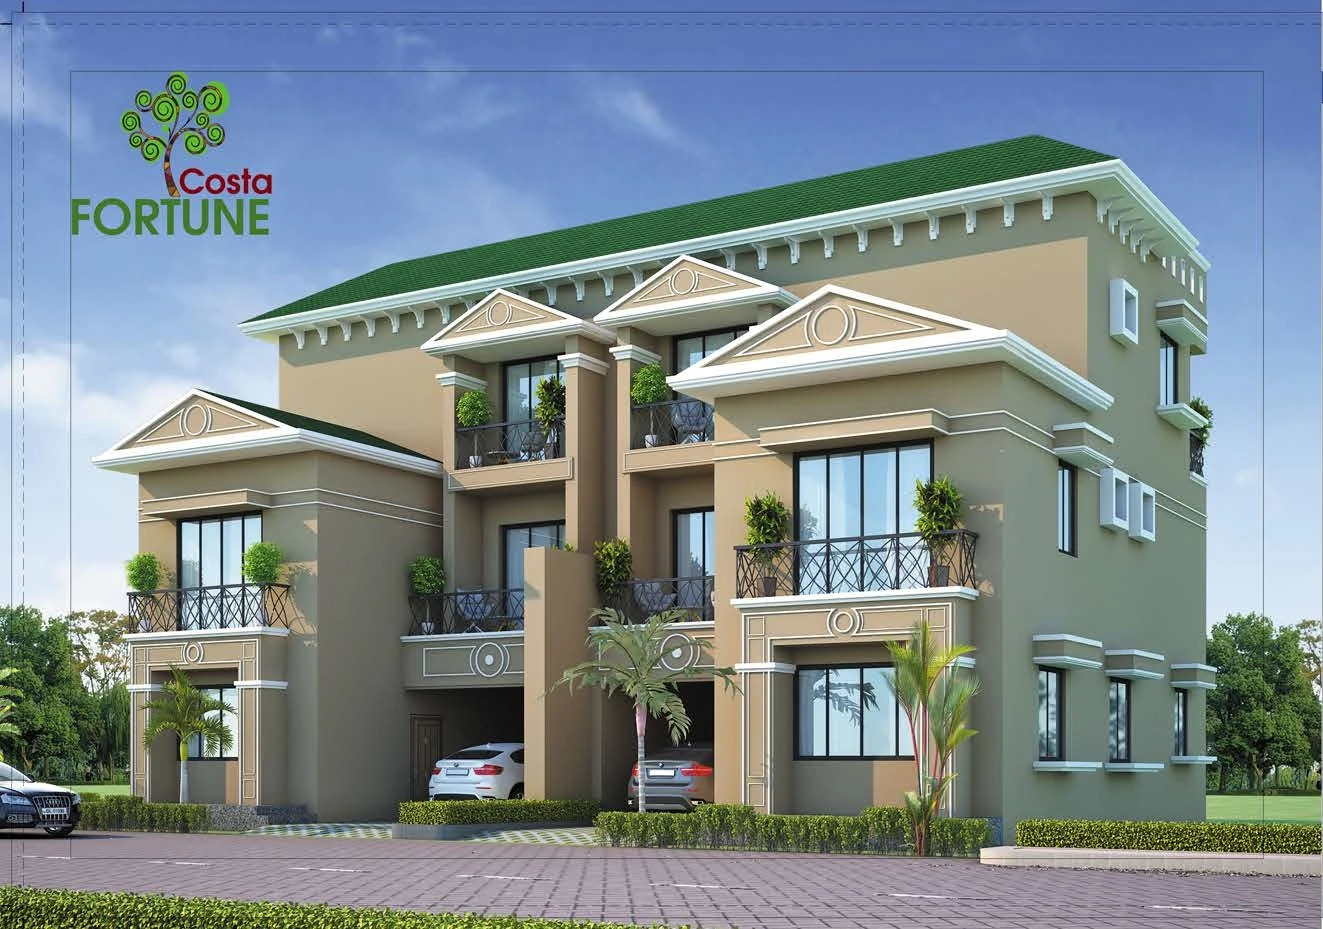
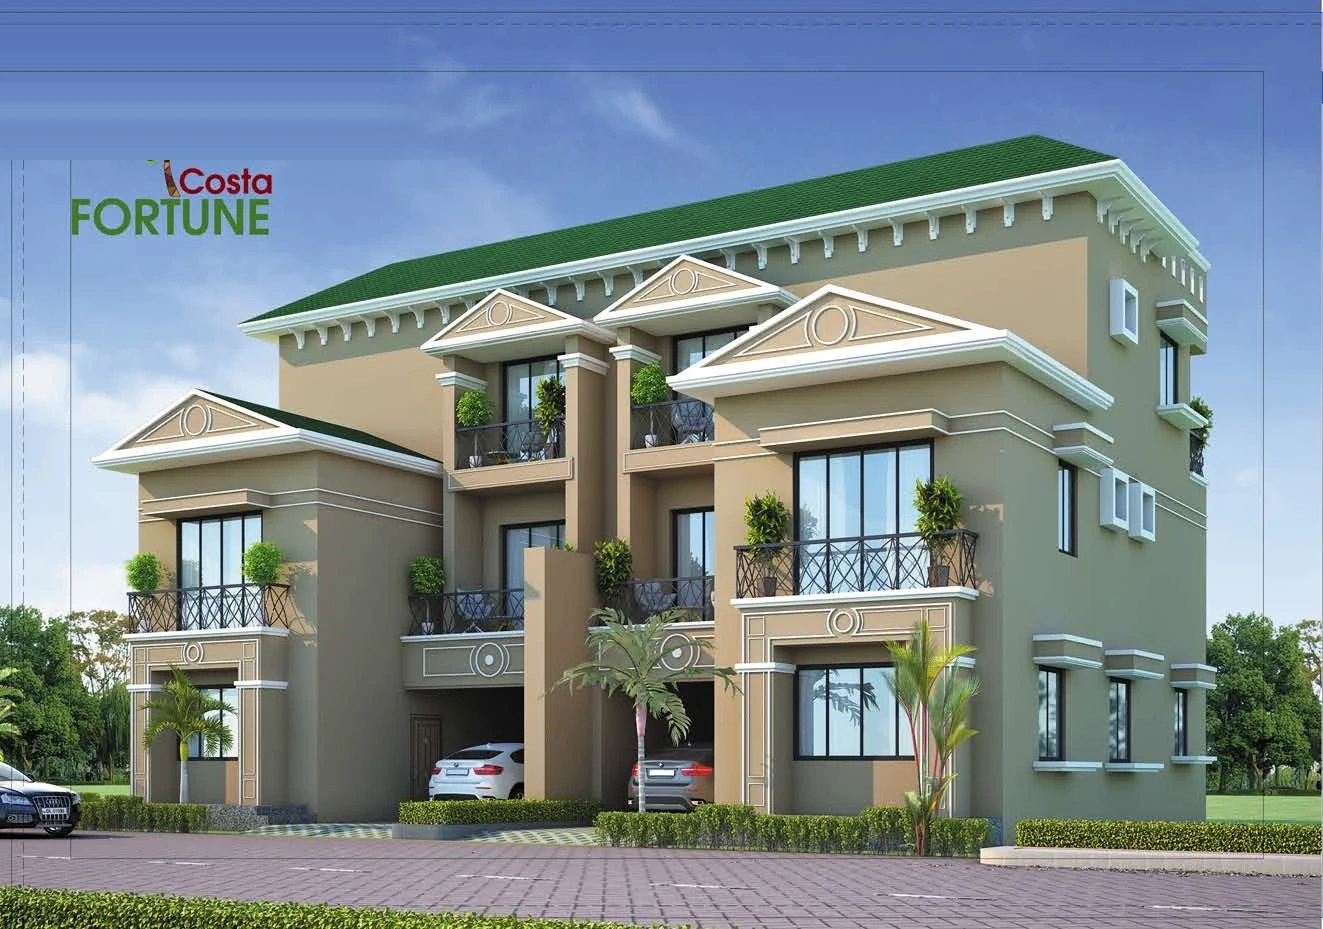
feat(cleanup): satellite map from google maps, heal triplex watermarks, high contrast stats, and Phase 3 Horizon Heights piling telemetry

Changed region(s): [[0.093, 0.0624, 0.1859, 0.1873], [0.0, 0.0, 0.062, 0.1561]]

diff --git a/triplex.html b/triplex.html
@@ -147,11 +147,23 @@
       <p class="body" style="color:#A39E93; font-size:14.5px; line-height:1.75; margin-bottom:28px;">
         Because the enclave is fully delivered, every element can be verified in person on site &mdash; the plaster finish, solid joinery, storm water drainage, and structural longevity. That is the tangible trust of a promoter with a completed track record.
       </p>
-      <dl class="stats" style="display:grid; grid-template-columns:repeat(2, 1fr); gap:16px; border-top:1px solid rgba(212,175,55,0.25); padding-top:20px;">
-        <div class="stat"><dt style="color:#D4AF37; font-family:var(--serif); font-size:28px; font-weight:700;">G+2</dt><dd style="color:#FAF8F5; font-size:12px; font-family:var(--ui); text-transform:uppercase; letter-spacing:0.1em; margin-top:4px;">Villa configuration</dd></div>
-        <div class="stat"><dt style="color:#0E873D; font-family:var(--serif); font-size:28px; font-weight:700;">100%</dt><dd style="color:#FAF8F5; font-size:12px; font-family:var(--ui); text-transform:uppercase; letter-spacing:0.1em; margin-top:4px;">Sold out &amp; handed over</dd></div>
-        <div class="stat"><dt style="color:#D4AF37; font-family:var(--serif); font-size:24px; font-weight:700;">RP/19/2023</dt><dd style="color:#FAF8F5; font-size:12px; font-family:var(--ui); text-transform:uppercase; letter-spacing:0.1em; margin-top:4px;">ORERA Registered /00854</dd></div>
-        <div class="stat"><dt style="color:#E5C368; font-family:var(--serif); font-size:28px; font-weight:700;">Phase 1</dt><dd style="color:#FAF8F5; font-size:12px; font-family:var(--ui); text-transform:uppercase; letter-spacing:0.1em; margin-top:4px;">Of 3 Enclave Phases</dd></div>
+      <dl class="stats" style="display:grid; grid-template-columns:repeat(2, 1fr); gap:14px; border-top:1px solid rgba(212,175,55,0.3); padding-top:20px; background:transparent;">
+        <div class="stat" style="background:rgba(14,24,18,0.95) !important; border:1px solid rgba(212,175,55,0.35) !important; border-radius:8px; padding:16px 18px; box-shadow:0 8px 24px rgba(0,0,0,0.5);">
+          <dt style="color:#D4AF37 !important; font-family:var(--serif); font-size:30px; font-weight:700; line-height:1;">G+2</dt>
+          <dd style="color:#FAF8F5 !important; font-size:12px; font-family:var(--ui); font-weight:600; text-transform:uppercase; letter-spacing:0.12em; margin-top:8px;">Villa configuration</dd>
+        </div>
+        <div class="stat" style="background:rgba(14,24,18,0.95) !important; border:1px solid rgba(212,175,55,0.35) !important; border-radius:8px; padding:16px 18px; box-shadow:0 8px 24px rgba(0,0,0,0.5);">
+          <dt style="color:#0E873D !important; font-family:var(--serif); font-size:30px; font-weight:700; line-height:1;">100%</dt>
+          <dd style="color:#FAF8F5 !important; font-size:12px; font-family:var(--ui); font-weight:600; text-transform:uppercase; letter-spacing:0.12em; margin-top:8px;">Sold out &amp; handed over</dd>
+        </div>
+        <div class="stat" style="background:rgba(14,24,18,0.95) !important; border:1px solid rgba(212,175,55,0.35) !important; border-radius:8px; padding:16px 18px; box-shadow:0 8px 24px rgba(0,0,0,0.5);">
+          <dt style="color:#D4AF37 !important; font-family:var(--serif); font-size:24px; font-weight:700; line-height:1;">RP/19/2023</dt>
+          <dd style="color:#FAF8F5 !important; font-size:12px; font-family:var(--ui); font-weight:600; text-transform:uppercase; letter-spacing:0.12em; margin-top:8px;">ORERA Registered /00854</dd>
+        </div>
+        <div class="stat" style="background:rgba(14,24,18,0.95) !important; border:1px solid rgba(212,175,55,0.35) !important; border-radius:8px; padding:16px 18px; box-shadow:0 8px 24px rgba(0,0,0,0.5);">
+          <dt style="color:#E5C368 !important; font-family:var(--serif); font-size:30px; font-weight:700; line-height:1;">Phase 1</dt>
+          <dd style="color:#FAF8F5 !important; font-size:12px; font-family:var(--ui); font-weight:600; text-transform:uppercase; letter-spacing:0.12em; margin-top:8px;">Of 3 Enclave Phases</dd>
+        </div>
       </dl>
     </div>
 
@@ -232,11 +244,23 @@
       <p class="body" style="color:#A39E93; font-size:14.5px; line-height:1.75; margin-bottom:28px;">
         We maintain the official owner resale waiting register and contact verified buyers in sequential order. Zero brokerage is charged on promoter-handled transfers, and all documents are cross-verified against original ORERA allotments before closure.
       </p>
-      <dl class="stats" style="display:grid; grid-template-columns:repeat(2, 1fr); gap:16px; border-top:1px solid rgba(212,175,55,0.25); padding-top:20px;">
-        <div class="stat"><dt style="color:#D4AF37; font-family:var(--serif); font-size:28px; font-weight:700;">0</dt><dd style="color:#FAF8F5; font-size:12px; font-family:var(--ui); text-transform:uppercase; letter-spacing:0.1em; margin-top:4px;">Primary units left</dd></div>
-        <div class="stat"><dt style="color:#0E873D; font-family:var(--serif); font-size:24px; font-weight:700;">Direct</dt><dd style="color:#FAF8F5; font-size:12px; font-family:var(--ui); text-transform:uppercase; letter-spacing:0.1em; margin-top:4px;">Promoter-handled transfer</dd></div>
-        <div class="stat"><dt style="color:#D4AF37; font-family:var(--serif); font-size:28px; font-weight:700;">₹0</dt><dd style="color:#FAF8F5; font-size:12px; font-family:var(--ui); text-transform:uppercase; letter-spacing:0.1em; margin-top:4px;">Zero Brokerage Fee</dd></div>
-        <div class="stat"><dt style="color:#E5C368; font-family:var(--serif); font-size:24px; font-weight:700;">100%</dt><dd style="color:#FAF8F5; font-size:12px; font-family:var(--ui); text-transform:uppercase; letter-spacing:0.1em; margin-top:4px;">ORERA Verified Allotment</dd></div>
+      <dl class="stats" style="display:grid; grid-template-columns:repeat(2, 1fr); gap:14px; border-top:1px solid rgba(212,175,55,0.3); padding-top:20px; background:transparent;">
+        <div class="stat" style="background:rgba(14,24,18,0.95) !important; border:1px solid rgba(212,175,55,0.35) !important; border-radius:8px; padding:16px 18px; box-shadow:0 8px 24px rgba(0,0,0,0.5);">
+          <dt style="color:#D4AF37 !important; font-family:var(--serif); font-size:30px; font-weight:700; line-height:1;">0</dt>
+          <dd style="color:#FAF8F5 !important; font-size:12px; font-family:var(--ui); font-weight:600; text-transform:uppercase; letter-spacing:0.12em; margin-top:8px;">Primary units left</dd>
+        </div>
+        <div class="stat" style="background:rgba(14,24,18,0.95) !important; border:1px solid rgba(212,175,55,0.35) !important; border-radius:8px; padding:16px 18px; box-shadow:0 8px 24px rgba(0,0,0,0.5);">
+          <dt style="color:#0E873D !important; font-family:var(--serif); font-size:26px; font-weight:700; line-height:1;">Direct</dt>
+          <dd style="color:#FAF8F5 !important; font-size:12px; font-family:var(--ui); font-weight:600; text-transform:uppercase; letter-spacing:0.12em; margin-top:8px;">Promoter-handled transfer</dd>
+        </div>
+        <div class="stat" style="background:rgba(14,24,18,0.95) !important; border:1px solid rgba(212,175,55,0.35) !important; border-radius:8px; padding:16px 18px; box-shadow:0 8px 24px rgba(0,0,0,0.5);">
+          <dt style="color:#D4AF37 !important; font-family:var(--serif); font-size:30px; font-weight:700; line-height:1;">₹0</dt>
+          <dd style="color:#FAF8F5 !important; font-size:12px; font-family:var(--ui); font-weight:600; text-transform:uppercase; letter-spacing:0.12em; margin-top:8px;">Zero Brokerage Fee</dd>
+        </div>
+        <div class="stat" style="background:rgba(14,24,18,0.95) !important; border:1px solid rgba(212,175,55,0.35) !important; border-radius:8px; padding:16px 18px; box-shadow:0 8px 24px rgba(0,0,0,0.5);">
+          <dt style="color:#E5C368 !important; font-family:var(--serif); font-size:26px; font-weight:700; line-height:1;">100%</dt>
+          <dd style="color:#FAF8F5 !important; font-size:12px; font-family:var(--ui); font-weight:600; text-transform:uppercase; letter-spacing:0.12em; margin-top:8px;">ORERA Verified Allotment</dd>
+        </div>
       </dl>
     </div>
   </div>

diff --git a/index.html b/index.html
@@ -331,12 +331,6 @@
   </div>
   <div class="hero__content" style="position:relative; z-index:3; max-width:1200px; margin:0 auto; padding-top:20px; padding-bottom:30px;">
     
-    <!-- OFFICIAL BUILDER PRESTIGE BADGE AT ENTRANCE -->
-    <div style="display:inline-flex; align-items:center; gap:12px; padding:8px 20px; border-radius:999px; background:rgba(8,14,10,0.88); border:1px solid rgba(212,175,55,0.5); margin-bottom:20px; backdrop-filter:blur(14px); box-shadow:0 8px 24px rgba(0,0,0,0.5);">
-      <img src="assets/logos/costa-furtune-official-gold.webp" alt="Costa Furtune Official Emblem" width="28" height="28" style="height:26px; width:26px; object-fit:contain; filter:drop-shadow(0 2px 6px rgba(212,175,55,0.5)); flex-shrink:0;" />
-      <span style="font-size:11.5px; font-family:var(--ui); font-weight:700; letter-spacing:0.16em; text-transform:uppercase; color:#D4AF37;">Official Developer Enclave &middot; Sai Harmony Pvt. Ltd. &middot; ORERA MP/19/2024/01244</span>
-    </div>
-
     <h1 class="hero__title" style="margin-bottom:18px; text-shadow:0 4px 28px rgba(0,0,0,0.85);">
       <span class="hero__line" style="color:#FAF8F5;">Costa</span>
       <span class="hero__line hero__line--accent" style="color:#D4AF37;">Furtune</span>
@@ -468,7 +462,7 @@
     <div class="location__media">
       <figure class="location__map">
         <img src="assets/costa-furtune-satellite-location-map.webp" alt="Official Satellite Location Map for Costa Furtune Master Township showing Sparsh Hospital, Chandaka Forest and 200ft NH Bypass" loading="lazy" decoding="async" width="1200" height="1200" />
-        <span class="map-pin" style="--x:58.44%; --y:51.42%;">
+        <span class="map-pin" style="--x:52.29%; --y:49.13%;">
           <span class="map-pin__pulse"></span>
           <span class="map-pin__dot"></span>
           <span class="map-pin__label">Costa Furtune<small>Ghangapatna · Kantabada</small></span>
@@ -576,7 +570,7 @@
         <ul class="township-key">
           <li><span>01</span><b>Costa Furtune Triplex</b><em>Phase 1 · G+2 villas · delivered &amp; sold out</em></li>
           <li><span>02</span><b>Costa Furtune Crestview</b><em>Phase 2 · B+S+12 · 144 residences · Aug 2028</em></li>
-          <li><span>03</span><b>Costa Furtune Horizon Heights</b><em>Phase 3 · B+S+12 Apartment with Duplex Penthouse · Plot No. 2 · EOI open</em></li>
+          <li><span>03</span><b>Costa Furtune Horizon Heights</b><em>Phase 3 · B+S+12 Apartment with Duplex Penthouse · Plot No. 2 · Possession June 2029</em></li>
           <li><span>04</span><b>Club Costa Fantacy</b><em>Shared anchor · G+3 + Open-to-Sky Party Terrace · township clubhouse</em></li>
         </ul>
         <a href="#enquire" class="btn btn--primary btn--sm">Book Master Site Tour ↗</a>
@@ -602,7 +596,7 @@
       <a href="horizon-heights.html" class="township-master-pill">
         <span class="badge-exclusive" style="align-self:flex-start;">PHASE 3 · SKYWARD EXPANSION</span>
         <strong>Costa Furtune Horizon Heights</strong>
-        <span>B+S+12 Superstructure with Duplex Penthouse · Plot No. 2 · EOI Open (Possession: June 2029)</span>
+        <span>B+S+12 Superstructure with Duplex Penthouse · Plot No. 2 · Possession: June 2029</span>
       </a>
       <a href="clubhouse.html" class="township-master-pill">
         <span class="badge-ready" style="align-self:flex-start;">SHARED ANCHOR · READY</span>
@@ -725,7 +719,7 @@
         <div class="township-card__meta">
           <span>ORERA: <b>RP/19/2026/01487</b></span>
           <span>Typology: <b>B+S+12 Superstructure with Duplex Penthouse</b></span>
-          <span>Status: <b>EOI Open &middot; Possession June 2029</b></span>
+          <span>Status: <b>Piling &amp; Raft Complete &middot; Possession June 2029</b></span>
         </div>
         <div class="township-card__actions">
           <a href="horizon-heights.html" class="btn btn--gold btn--sm" style="display:inline-block; padding:8px 18px; font-size:11px;">View Horizon Heights Page →</a>
@@ -768,7 +762,7 @@
     <p class="label"><span>03</span> Crestview Residences</p>
     <h2 class="display">The 3 BHK Collection.<br /><em>Bespoke, spacious, uncompromised.</em></h2>
     <p class="lede lede--center">
-      1 BHK residences are 100% fully booked. Developer allocation is now dedicated exclusively to the four premier 3 BHK typologies starting at ₹5,700/sq.ft.
+      Limited 1 BHK units available in selective allocation. Primary developer share is dedicated to the four premier 3 BHK typologies starting at ₹5,700/sq.ft.
     </p>
   </div>
 
@@ -780,7 +774,7 @@
         <span class="badge-ready">BASE RATE: ₹5,700 / SQ. FT. SBA</span>
       </div>
       <p>
-        <strong>Notice to Buyers:</strong> 1 BHK residences are <strong>100% fully booked</strong>. Developer allocation is strictly focused on our expansive <strong>3 BHK Royal &amp; Imperial Collection (1,845 – 2,033 sq ft SBA) starting at ₹5,700/sq.ft</strong>.
+        <strong>Notice to Buyers:</strong> Limited 1 BHK units available (600 – 671 sq ft) upon request. Developer allocation is strictly focused on our expansive <strong>3 BHK Royal &amp; Imperial Collection (1,845 – 2,033 sq ft SBA) starting at ₹5,700/sq.ft</strong>.
       </p>
     </div>
 
@@ -1219,9 +1213,9 @@
       <img src="assets/site-tower.webp" alt="Active RCC tower construction stilt to 5th floor" loading="lazy" decoding="async" width="1000" height="1457" />
       <figcaption><span>Tower Elevation</span>RCC columns and slab casting from stilt to fifth level.</figcaption>
     </figure>
-    <figure class="sitegrid__item">
-      <img src="assets/site-foundation.webp" alt="Foundation and subterranean piling work" loading="lazy" decoding="async" width="1000" height="1351" />
-      <figcaption><span>Sub-structure</span>Piling and RCC raft foundation completed.</figcaption>
+    <figure class="sitegrid__item" data-lightbox="assets/site-foundation.webp" data-caption="Phase 3 · Costa Furtune Horizon Heights — Heavy RCC Subterranean Piling &amp; Raft Foundation Executed on Site">
+      <img src="assets/site-foundation.webp" alt="Costa Furtune Horizon Heights Phase 3 Subterranean Piling and Raft Foundation" loading="lazy" decoding="async" width="1000" height="1351" />
+      <figcaption><span>Phase 3 · Horizon Heights</span>Heavy RCC subterranean piling &amp; raft foundation work completed on site.</figcaption>
     </figure>
     <figure class="sitegrid__item">
       <img src="assets/site-gate.webp" alt="Working site gate and compliance board" loading="lazy" decoding="async" width="1000" height="1600" />
@@ -1664,7 +1658,7 @@
             <p>B+S+12 Panoramic Superstructure with Duplex Penthouse · Plot No. 2 · ORERA RP/19/2026/01487 · Overlooking Chandaka Green Belt</p>
           </div>
           <div class="phase-detail__badges">
-            <span class="badge-exclusive">EOI Bookings Open</span>
+            <span class="badge-exclusive">Possession June 2029</span>
           </div>
         </div>
 

diff --git a/horizon-heights.html b/horizon-heights.html
@@ -93,7 +93,7 @@
     <div class="announcement-content">
       <span class="announcement-badge">👑 OFFICIAL BUILDER PLATFORM</span>
       <span class="announcement-text">Costa Furtune Horizon Heights &middot; B+S+12 Superstructure with Duplex Penthouse &middot; Directly on 200 ft NH Bypass &middot; ORERA RP/19/2026/01487 &middot; Possession: June 2029</span>
-      <a href="#enquire" class="announcement-cta">Register Priority EOI &rarr;</a>
+      <a href="#enquire" class="announcement-cta">Book Priority Consultation &rarr;</a>
     </div>
   </div>
 
@@ -121,7 +121,7 @@
       <a href="index.html#township">Full Township</a>
     </nav>
 
-    <a class="btn btn-lux-primary nav__cta" href="#enquire" style="padding:10px 20px; font-size:11px;">Register EOI</a>
+    <a class="btn btn-lux-primary nav__cta" href="#enquire" style="padding:10px 20px; font-size:11px;">Book VIP Visit</a>
     <button class="nav__toggle" id="navToggle" aria-expanded="false" aria-controls="navMenu" aria-label="Open navigation menu">
       <span></span><span></span><span></span><em>Menu</em>
     </button>
@@ -156,7 +156,7 @@
     <a href="#amenities"><span>07</span>Club Costa Fantacy &amp; Gymnasium</a>
     <a href="#payment"><span>08</span>Construction Payment Schedule</a>
     <a href="#commercial"><span>09</span>Commercial Promenade on 200 ft Road</a>
-    <a href="#enquire"><span>10</span>Register Priority EOI</a>
+    <a href="#enquire"><span>10</span>Priority Consultation</a>
   </nav>
   <div class="navmenu__foot">
     <a href="tel:+917328089908">+91 73280 89908</a>
@@ -214,7 +214,7 @@
 
     <div class="hero__actions" style="display:flex; gap:14px; flex-wrap:wrap;">
       <a class="btn btn-lux-primary" href="#enquire" style="padding:14px 28px; font-weight:700; text-decoration:none;">
-        ✨ Register Priority EOI (June 2029) &rarr;
+        ✨ Book Priority Consultation (June 2029) &rarr;
       </a>
       <button type="button" class="btn btn-lux-gold btn-brochure" onclick="openBrochureGate('assets/brochure/costa-furtune-horizon-heights-official.pdf', 'Costa-Furtune-Horizon-Heights-Official-Brochure.pdf', 'Costa Furtune Horizon Heights')" style="padding:14px 26px; font-weight:700; cursor:pointer;">
         📥 Official 22-Page Brochure (PDF)
@@ -778,7 +778,7 @@
         <div class="stat-box-light"><dt>Ground</dt><dd>Commercial arcade</dd></div>
         <div class="stat-box-light" style="border-left-color:#0E873D;"><dt style="color:#0E873D;">200 ft</dt><dd>NH Bypass Frontage</dd></div>
         <div class="stat-box-light"><dt>3 Phases</dt><dd>Built-in consumer base</dd></div>
-        <div class="stat-box-light" style="border-left-color:#B8913B;"><dt style="color:#B8913B;">EOI Open</dt><dd>Early allocation window</dd></div>
+        <div class="stat-box-light" style="border-left-color:#B8913B;"><dt style="color:#B8913B;">June 2029</dt><dd>Committed Handover</dd></div>
       </div>
       <div style="margin-top:28px;">
         <a href="#enquire" class="btn btn-lux-gold" style="text-decoration:none;">Inquire Commercial Allotments &rarr;</a>
@@ -797,7 +797,7 @@
       <ul class="enquire__facts" style="list-style:none; padding:0; margin:0 0 24px; display:flex; flex-direction:column; gap:10px; font-size:13.5px;">
         <li style="display:flex; justify-content:space-between;"><b style="color:#A39E93;">ORERA License:</b><span style="color:#0E873D; font-weight:700;">RP/19/2026/01487</span></li>
         <li style="display:flex; justify-content:space-between;"><b style="color:#A39E93;">Committed Handover:</b><span style="color:#0E873D; font-weight:700;">June 2029</span></li>
-        <li style="display:flex; justify-content:space-between;"><b style="color:#A39E93;">Current Window:</b><span style="color:#D4AF37; font-weight:700;">Priority EOI Open</span></li>
+        <li style="display:flex; justify-content:space-between;"><b style="color:#A39E93;">Current Status:</b><span style="color:#0E873D; font-weight:700;">Piling &amp; Raft Complete</span></li>
         <li style="display:flex; justify-content:space-between;"><b style="color:#A39E93;">Base Price:</b><span style="color:#FAF8F5;">Indicative ₹6,000 / sq.ft.</span></li>
         <li style="display:flex; justify-content:space-between;"><b style="color:#A39E93;">Promoter:</b><span style="color:#FAF8F5;">Sai Harmony Pvt. Ltd.</span></li>
       </ul>
@@ -939,7 +939,7 @@
 <div class="toast" id="toast" role="status" aria-live="polite"></div>
 
 <!-- ─────────────────────────  FLOATING LUXURY WHATSAPP CONCIERGE  ───────────────────────── -->
-<a href="https://wa.me/917328089908?text=Namaste%20Sai%20Harmony,%20I%20am%20interested%20in%20Costa%20Furtune%20Horizon%20Heights%20Phase%203%20EOI." 
+<a href="https://wa.me/917328089908?text=Namaste%20Sai%20Harmony,%20I%20am%20interested%20in%20Costa%20Furtune%20Horizon%20Heights%20Phase%203%20Priority%20Consultation." 
    target="_blank" 
    rel="noopener" 
    class="luxury-wa-float" 
@@ -1050,7 +1050,7 @@
       e.preventDefault();
       const name = form.querySelector('#name')?.value || 'Guest';
       const phone = form.querySelector('#phone')?.value || '';
-      const interest = form.querySelector('#interest')?.value || 'Costa Furtune Horizon Heights EOI';
+      const interest = form.querySelector('#interest')?.value || 'Costa Furtune Horizon Heights Allocation';
       const when = form.querySelector('#when')?.value || 'Upcoming Weekend';
 
       if (!phone || phone.length < 8) {
@@ -1059,10 +1059,10 @@
       }
 
       const msg = encodeURIComponent(
-        `Namaste Sai Harmony!\n\nI would like to register my Priority Expression of Interest (EOI) for Costa Furtune Horizon Heights (Phase 3).\n\n*Name:* ${name}\n*Phone:* ${phone}\n*Requirement:* ${interest}\n*Preferred Consultation:* ${when}\n*Committed Handover:* June 2029\n\nPlease share the 22-page official brochure, sanctioned CAD drawings, and early-mover price list.`
+        `Namaste Sai Harmony!\n\nI would like to register my Priority Allocation Consultation for Costa Furtune Horizon Heights (Phase 3).\n\n*Name:* ${name}\n*Phone:* ${phone}\n*Requirement:* ${interest}\n*Preferred Consultation:* ${when}\n*Committed Handover:* June 2029\n\nPlease share the 22-page official brochure, sanctioned CAD drawings, and early-mover price list.`
       );
 
-      alert(`Thank you, ${name}! Your Priority EOI has been registered with Sai Harmony. Opening your WhatsApp consultation.`);
+      alert(`Thank you, ${name}! Your Priority Consultation has been registered with Sai Harmony. Opening your WhatsApp consultation.`);
       window.open(`https://wa.me/917328089908?text=${msg}`, '_blank');
     });
   }

diff --git a/crestview.html b/crestview.html
@@ -632,7 +632,7 @@
     </figure>
     <figure style="margin:0; border-radius:10px; overflow:hidden; box-shadow:0 14px 30px rgba(0,0,0,0.4); border:1px solid rgba(212,175,55,0.2);">
       <img src="assets/site-foundation.webp" alt="Heavy RCC Pile Foundation" style="width:100%; height:200px; object-fit:cover; display:block;" />
-      <figcaption style="padding:12px 16px; background:#0D141C; font-size:12.5px; color:#FAF8F5; font-weight:600; border-top:1px solid rgba(255,255,255,0.08);">Sub-structure Pile &amp; Raft Foundation</figcaption>
+      <figcaption style="padding:12px 16px; background:#0D141C; font-size:12.5px; color:#FAF8F5; font-weight:600; border-top:1px solid rgba(255,255,255,0.08);">Phase 3 (Horizon Heights) · Sub-structure Pile &amp; Raft Work Completed</figcaption>
     </figure>
     <figure style="margin:0; border-radius:10px; overflow:hidden; box-shadow:0 14px 30px rgba(0,0,0,0.4); border:1px solid rgba(212,175,55,0.2);">
       <img src="assets/site-gate.webp" alt="Site Gate &amp; Compliance Signboard" style="width:100%; height:200px; object-fit:cover; display:block;" />

diff --git a/css/style.css b/css/style.css
@@ -4986,3 +4986,31 @@ body[style*="background: #0"] .stat dd {
   text-align: center !important;
   text-shadow: 0 1px 4px rgba(0,0,0,0.9) !important;
 }
+
+/* Guaranteed high contrast for stats boxes in dark panels & sections */
+.section--split .stats,
+.panel .stats,
+.stats--dark {
+  background: transparent !important;
+  border-top: 1px solid rgba(212, 175, 55, 0.35) !important;
+  gap: 14px !important;
+}
+.section--split .stat,
+.panel .stat,
+.stat--dark {
+  background: rgba(14, 24, 18, 0.95) !important;
+  border: 1px solid rgba(212, 175, 55, 0.35) !important;
+  border-radius: 8px !important;
+  padding: 16px 18px !important;
+  box-shadow: 0 8px 24px rgba(0, 0, 0, 0.5) !important;
+}
+.section--split .stat dt,
+.panel .stat dt {
+  color: #D4AF37 !important;
+}
+.section--split .stat dd,
+.panel .stat dd {
+  color: #FAF8F5 !important;
+  opacity: 0.95 !important;
+  font-weight: 600 !important;
+}

diff --git a/blog.html b/blog.html
@@ -138,7 +138,7 @@
       <dl class="stats">
         <div class="stat"><dt>Phase 1</dt><dd>Delivered &middot; sold out</dd></div>
         <div class="stat"><dt>Phase 2</dt><dd>Under construction</dd></div>
-        <div class="stat"><dt>Phase 3</dt><dd>EOI open</dd></div>
+        <div class="stat"><dt>Phase 3</dt><dd>Possession June 2029</dd></div>
         <div class="stat"><dt>2028</dt><dd>Crestview handover</dd></div>
       </dl>
       
@@ -231,7 +231,7 @@
           <select id="interest" name="interest">
           <option>General enquiry</option>
           <option>Phase 2 Crestview &mdash; 3 BHK</option>
-          <option>Phase 3 Horizon Heights &mdash; EOI</option>
+          <option>Phase 3 Horizon Heights &mdash; Possession June 2029</option>
           <option>Phase 1 Triplex &mdash; resale register</option>
           </select>
         </div>

diff --git a/clubhouse.html b/clubhouse.html
@@ -322,7 +322,7 @@
           <select id="interest" name="interest">
           <option>Club Costa Fantacy &mdash; membership &amp; walkthrough</option>
           <option>Phase 2 Crestview &mdash; 3 BHK</option>
-          <option>Phase 3 Horizon Heights &mdash; EOI</option>
+          <option>Phase 3 Horizon Heights &mdash; Possession June 2029</option>
           <option>Phase 1 Triplex &mdash; resale register</option>
           </select>
         </div>
